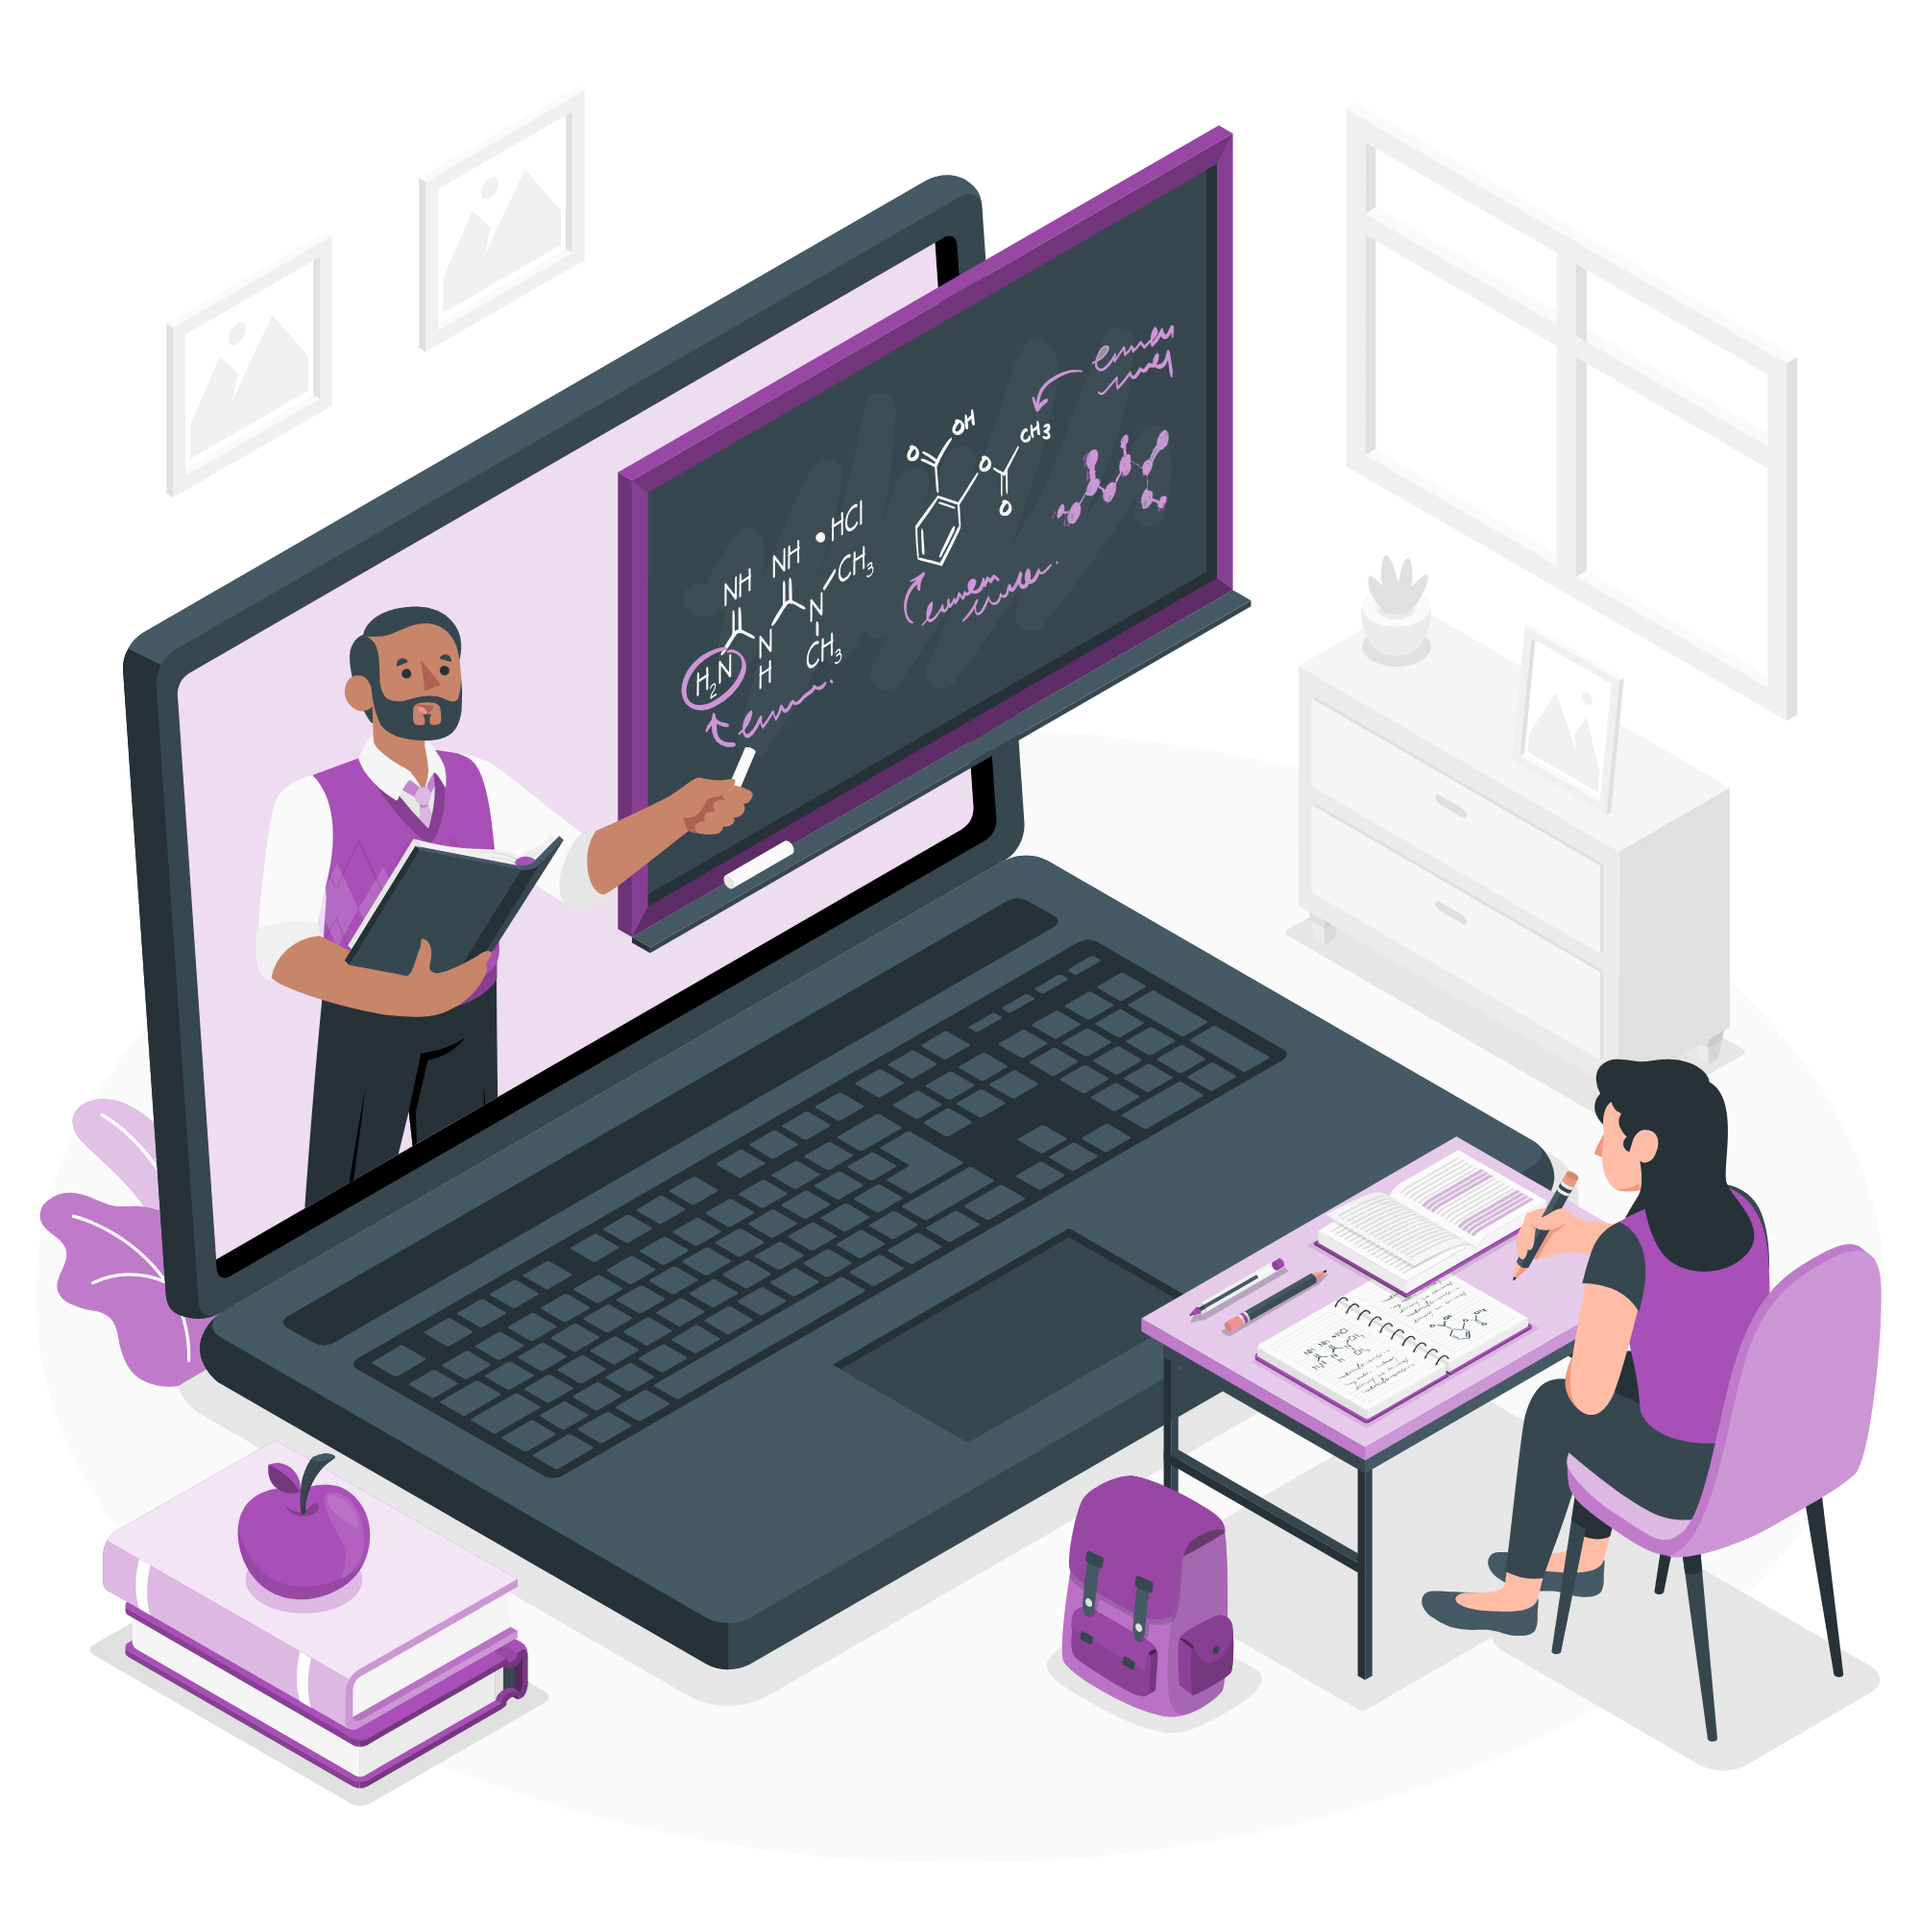
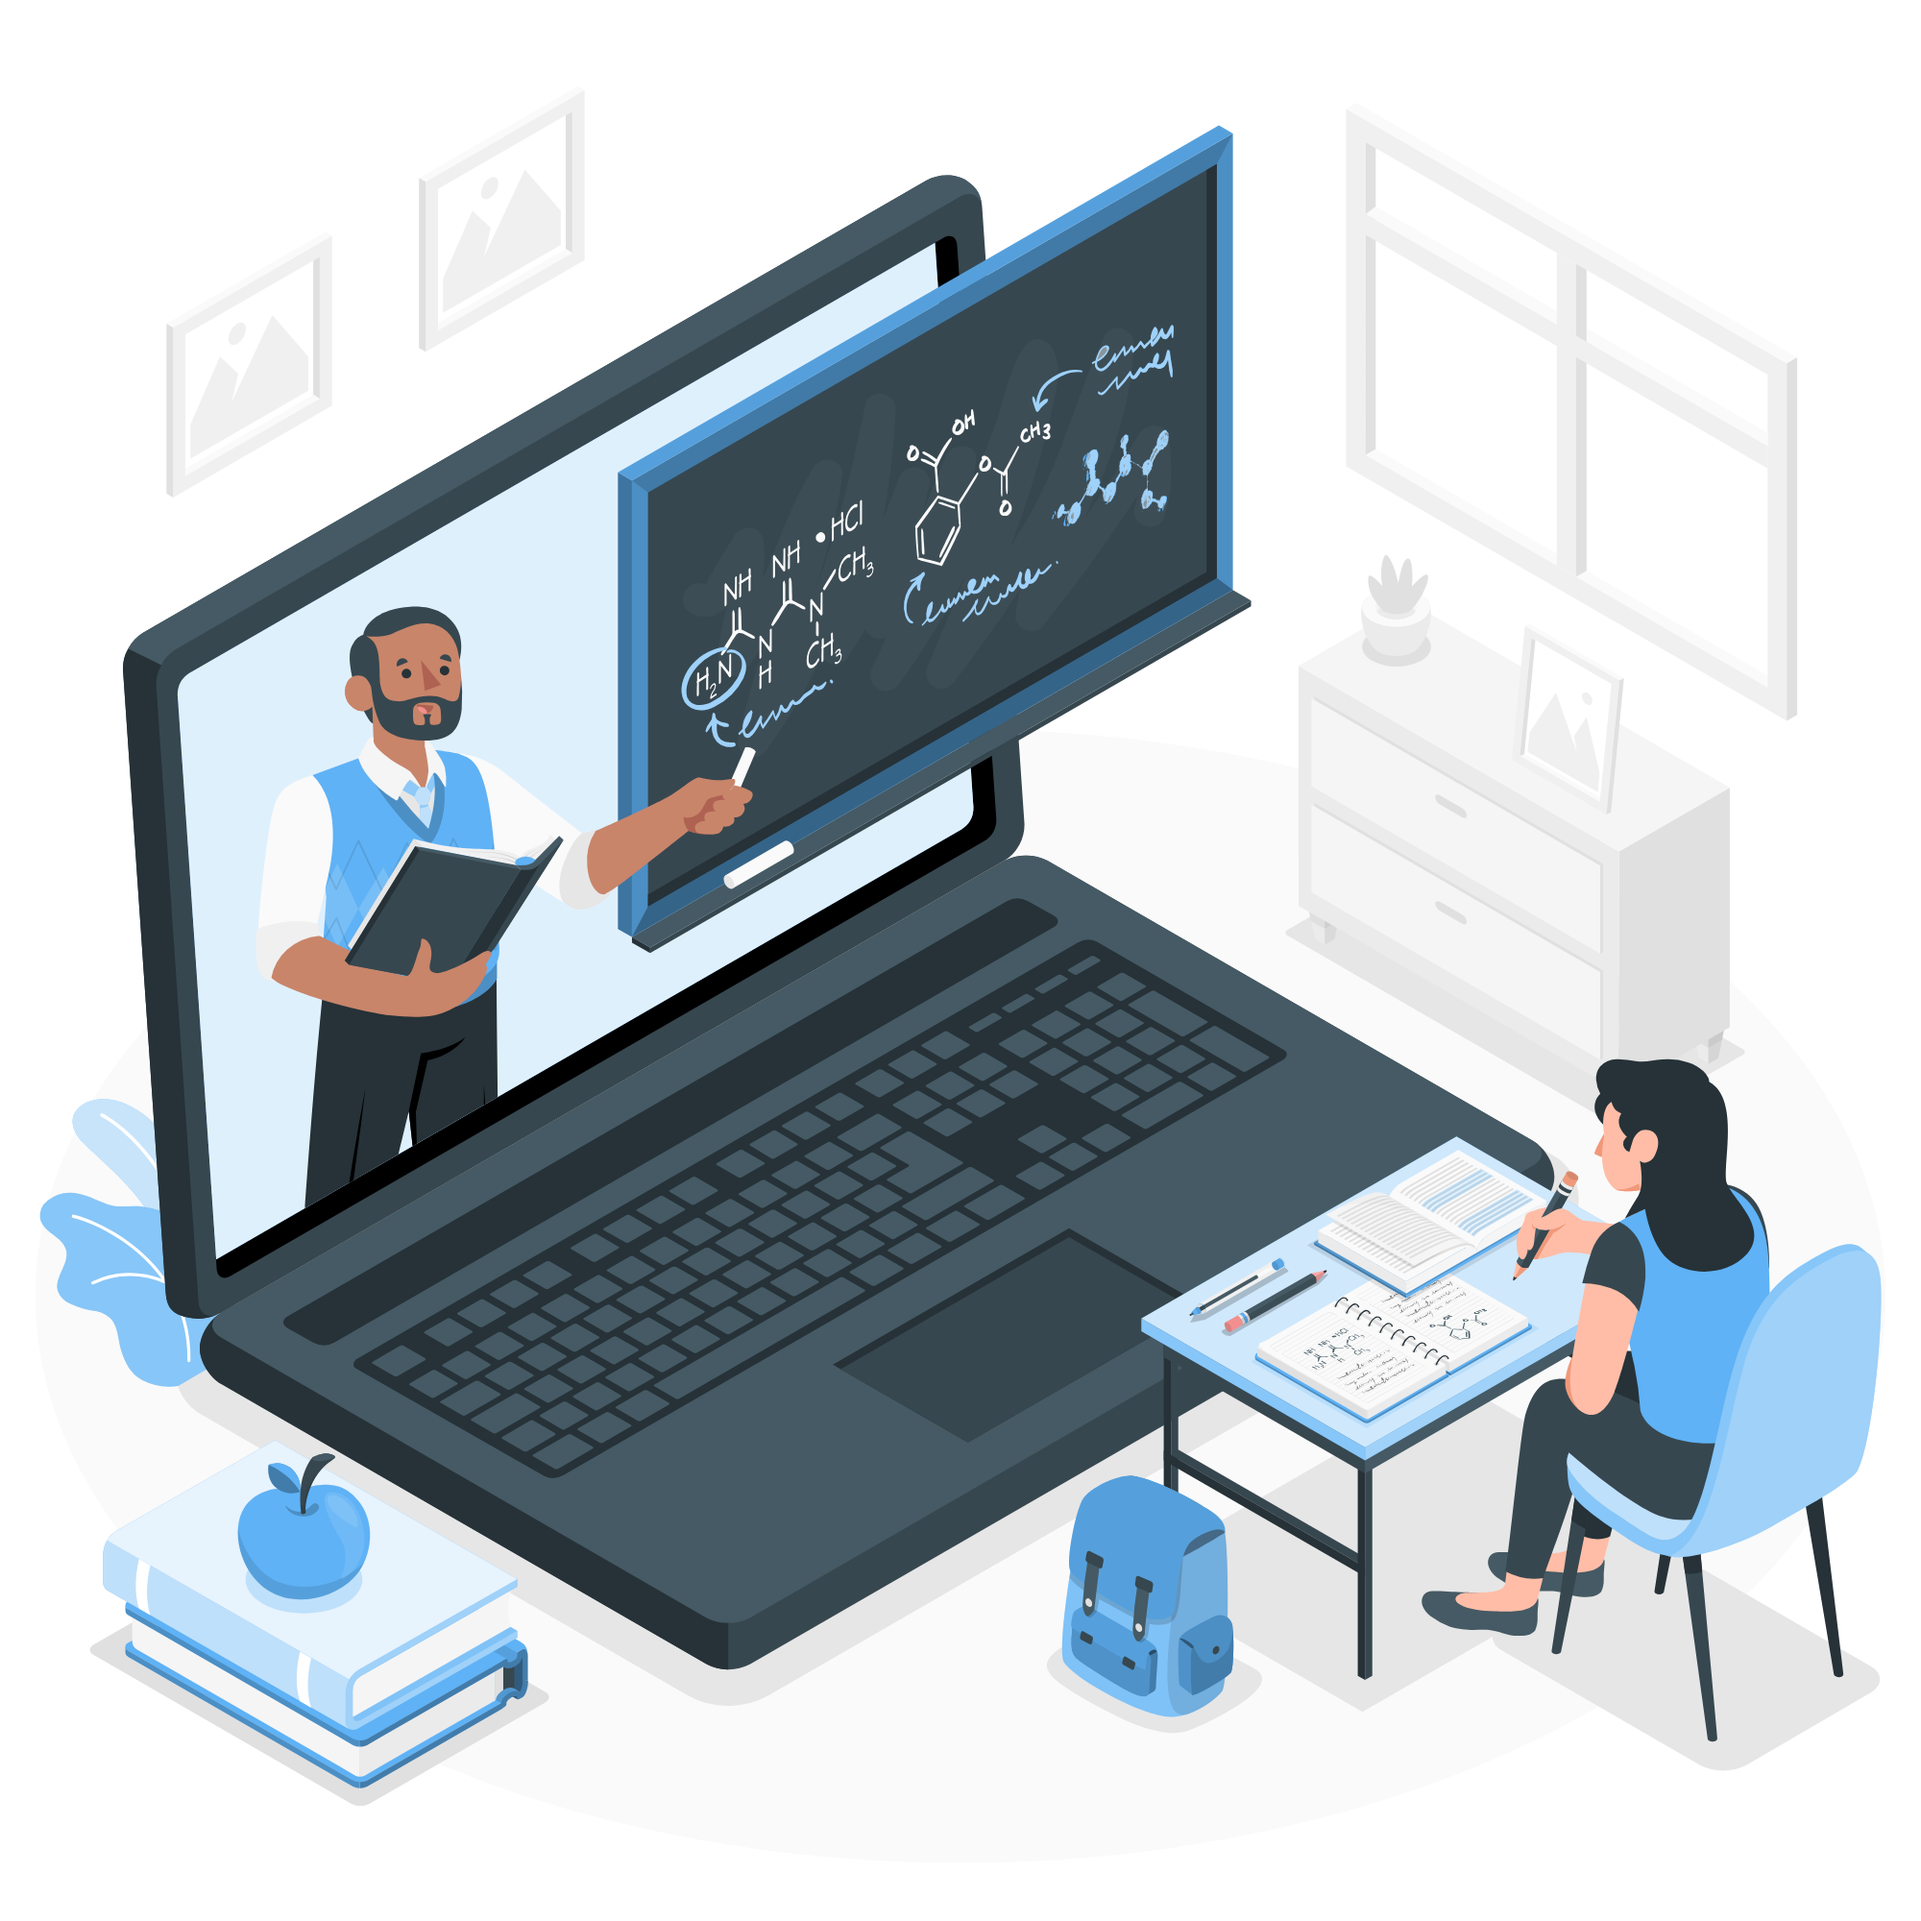
Become alterações

diff --git a/weblamoon/src/pages/BecameCreator.vue b/weblamoon/src/pages/BecameCreator.vue
@@ -1,22 +1,23 @@
 <template>
     <div
-        style="background-image:url(https://images.unsplash.com/photo-1557682250-33bd709cbe85?auto=format&fit=crop&q=80&w=2029&ixlib=rb-4.0.3&ixid=M3wxMjA3fDB8MHxwaG90by1wYWdlfHx8fGVufDB8fHx8fA%3D%3D)">
+        style="background-image:url(https://images.unsplash.com/photo-1618397746666-63405ce5d015?auto=format&fit=crop&q=80&w=1974&ixlib=rb-4.0.3&ixid=M3wxMjA3fDB8MHxwaG90by1wYWdlfHx8fGVufDB8fHx8fA%3D%3D)">
         <section class="bg-violet lg:pt-[120px] pb-10 lg:pb-20"
-            style="background-image:url(https://images.unsplash.com/photo-1557682250-33bd709cbe85?auto=format&fit=crop&q=80&w=2029&ixlib=rb-4.0.3&ixid=M3wxMjA3fDB8MHxwaG90by1wYWdlfHx8fGVufDB8fHx8fA%3D%3D);">
+            style="background-image:url(https://images.unsplash.com/photo-1618397746666-63405ce5d015?auto=format&fit=crop&q=80&w=1974&ixlib=rb-4.0.3&ixid=M3wxMjA3fDB8MHxwaG90by1wYWdlfHx8fGVufDB8fHx8fA%3D%3D);">
             <div class="grid max-w-screen-xl px-4 py-8 mx-auto lg:gap-8 xl:gap-0 lg:py-16 lg:grid-cols-12">
                 <div class="lg:col-span-7" style="margin-top: 140px;">
                     <h1 style="margin-right: 10px;"
-                        class="max-w-2xl mb-4 text-4xl font-extrabold tracking-tight leading-none md:text-5xl xl:text-6xl dark:text-white">
+                        class="max-w-2xl mb-4 text-4xl font-extrabold tracking-tight leading-none md:text-5xl xl:text-6xl dark:text-blue-950">
                         Tornar-se um Criador!
                     </h1>
                     <p style="margin-right: 10px;"
-                        class="max-w-2xl mb-6 font-light text-white-100 lg:mb-8 md:text-lg lg:text-xl dark:text-white">
-                        Aqui te mostraremos o que significa ser um Criador LaMoon, no que isso te ajuda e no impacto que
-                        isso traz ao seu negócio.
+                        class="max-w-2xl mb-6 font-light text-blue-900-100 lg:mb-8 md:text-lg lg:text-xl dark:text-blue-900">
+                        <strong>Aqui te mostraremos o que significa ser um Criador LaMoon, no que isso te ajuda e no impacto
+                            que
+                            isso traz ao seu negócio.</strong>
                     </p>
                     <p style="margin-right: 10px;"
-                        class="max-w-2xl mb-6 font-light text-white-100 lg:mb-8 md:text-lg lg:text-xl dark:text-white">
-                        Continue scrollando e se torne um Criador.
+                        class="max-w-2xl mb-6 font-light text-blue-900-100 lg:mb-8 md:text-lg lg:text-xl dark:text-blue-900">
+                        <strong>Continue scrollando e se torne um Criador.</strong>
                     </p>
                 </div>
                 <div class="lg:col-span-5 flex justify-end">
@@ -26,12 +27,11 @@
         </section>
 
         <div
-            style="background-image:url(https://images.unsplash.com/photo-1557682250-33bd709cbe85?auto=format&fit=crop&q=80&w=2029&ixlib=rb-4.0.3&ixid=M3wxMjA3fDB8MHxwaG90by1wYWdlfHx8fGVufDB8fHx8fA%3D%3D);">
+            style="background-image:url(https://images.unsplash.com/photo-1618397746666-63405ce5d015?auto=format&fit=crop&q=80&w=1974&ixlib=rb-4.0.3&ixid=M3wxMjA3fDB8MHxwaG90by1wYWdlfHx8fGVufDB8fHx8fA%3D%3D);">
             <section id="section1" class="section">
                 <div class="section-content">
                     <div class="section-text">
-                        <span
-                            class="large-text bg-clip-text text-transparent bg-gradient-to-r to-violet-700 from-violet-700">
+                        <span class="large-text bg-clip-text text-transparent bg-gradient-to-r to-sky-700 from-sky-700">
                             <strong>Demonstração de conhecimentos</strong>
                         </span>
                         <p class="medium-text">
@@ -52,8 +52,7 @@
                         <v-img src="@/assets/BecomeCreator/3.png"></v-img>
                     </div>
                     <div class="section-text">
-                        <span
-                            class="large-textl bg-clip-text text-transparent bg-gradient-to-r to-violet-600 from-violet-600">
+                        <span class="large-textl bg-clip-text text-transparent bg-gradient-to-r to-sky-600 from-sky-600">
                             <strong>Ótimo para o seu negócio</strong>
                         </span>
                         <p class="medium-textl">
@@ -67,8 +66,7 @@
             <section id="section3" class="section">
                 <div class="section-content">
                     <div class="section-text">
-                        <span
-                            class="large-text bg-clip-text text-transparent bg-gradient-to-r to-violet-500 from-violet-500"
+                        <span class="large-text bg-clip-text text-transparent bg-gradient-to-r to-sky-500 from-sky-500"
                             style="margin-left:-120px;">
                             <strong>Recompensas</strong>
                         </span>
@@ -85,12 +83,12 @@
             </section>
         </div>
         <section class="tam-dir bg-cover bg-center py-32 section-divider"
-            style="background-image: url('https://images.unsplash.com/photo-1638272181967-7d3772a91265?auto=format&fit=crop&q=80&w=2070&ixlib=rb-4.0.3&ixid=M3wxMjA3fDB8MHxwaG90by1wYWdlfHx8fGVufDB8fHx8fA%3D%3D');">
-            <div class="container mx-auto text-center text-white">
-                <h1 class="text-5xl font-medium mb-6 text-white bottommargin">Não perca tempo.</h1>
-                <p class="text-xl mb-12 text-white">Junte-se ao nosso universo de conhecimento.</p>
+            style=" background-image: url('https://images.unsplash.com/photo-1586809797289-ae54d86fe28b?auto=format&fit=crop&q=80&w=2070&ixlib=rb-4.0.3&ixid=M3wxMjA3fDB8MHxwaG90by1wYWdlfHx8fGVufDB8fHx8fA%3D%3D');">
+            <div class="container mx-auto text-center text-gray-800">
+                <h1 class="text-5xl font-medium mb-6 text-blue-950 bottommargin">Não perca tempo.</h1>
+                <p class="text-xl mb-12 text-sky-950">Junte-se ao nosso universo de conhecimento.</p>
                 <v-btn @click="beCreator" size="large" prepend-icon="mdi-check-decagram"
-                    class="bg-indigo-500 text-white py-4 px-12 rounded-full hover:bg-indigo-600" :disabled="show">
+                    class="bg-indigo-500 text-sky-950 py-3 px-12 rounded-full hover:bg-indigo-600" :disabled="show">
                     Tornar-se um Criador
                 </v-btn>
             </div>
